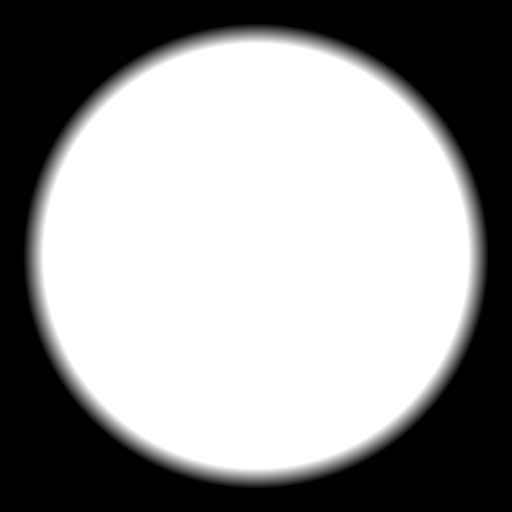
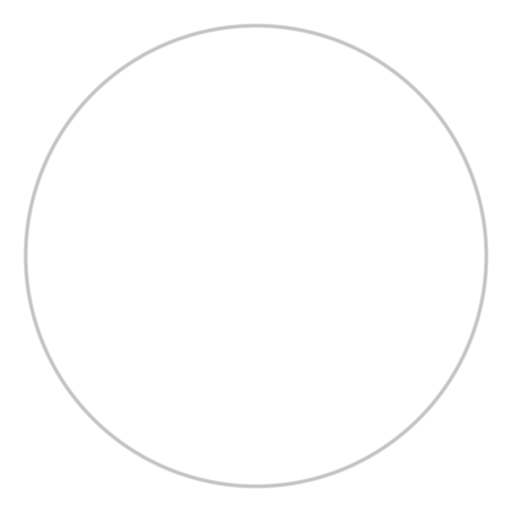
Add planets to scene

diff --git a/src/Game.jsx b/src/Game.jsx
@@ -1,7 +1,8 @@
 import { useGLTF, Environment } from "@react-three/drei";
-import { useLoader } from "@react-three/fiber";
+import { useLoader, useFrame } from "@react-three/fiber";
 import useOctree from "./useOctree";
 import Player from "./Player";
+import { useRef } from "react";
 import useOctreeHelper from "./useOctreeHelper";
 import Model from "./world-components/Platform";
 import Ocean from "./world-components/Ocean";
@@ -23,7 +24,20 @@ export default function Game() {
   const { nodes, scene } = useGLTF("/octree.glb");
   const octree = useOctree(scene);
   useOctreeHelper(octree);
+  const planet = useLoader(THREE.TextureLoader, "/img/planet.png");
+  const planet2 = useLoader(THREE.TextureLoader, "/img/planet2.png");
+  const planet3 = useLoader(THREE.TextureLoader, "/img/planet3.png");
   const simpleShadow = useLoader(THREE.TextureLoader, "/img/simpleShadow.png");
+  const diamond = useLoader(THREE.TextureLoader, "/img/diamond.png");
+  const planeRef = useRef();
+
+  // Rotate the mesh in the Z direction
+  useFrame((state, delta) => {
+    if (planeRef.current) {
+      const rotationSpeed = (2 * Math.PI) / 6; // Defines the speed of rotation
+      planeRef.current.rotation.z += (rotationSpeed * delta) / 300; // Adjusts the rotation in the Z direction
+    }
+  });
 
   return (
     <>
@@ -56,15 +70,51 @@ export default function Game() {
       <Clouds position-z={-300} position-y={-5} scale={10} />
       <Model />
       <Player octree={octree} />
-      <mesh position={[-300, 100, -700]} rotation-y={Math.PI / 6}>
+      {/* Big one */}
+      <mesh
+        ref={planeRef}
+        position={[-400, 40, -700]}
+        rotation-y={Math.PI / 5}
+        rotation-z={Math.PI / 1.6}
+      >
         <planeGeometry args={[1000, 1000]} />
-        <meshBasicMaterial
-          color="#978365"
-          transparent
-          opacity={1.0}
-          alphaMap={simpleShadow}
-          side={THREE.DoubleSide}
-        />
+        <meshBasicMaterial transparent opacity={0.5} alphaMap={planet} />
+      </mesh>
+      {/* Middle one */}
+      <mesh
+        position={[-600, 500, -100]}
+        rotation-y={Math.PI / 0.41}
+        rotation-x={Math.PI / 2.5}
+        rotation-z={Math.PI / 2}
+      >
+        <planeGeometry args={[100, 100]} />
+        <meshBasicMaterial transparent opacity={0.8} alphaMap={planet3} />
+      </mesh>
+      {/* Small ones */}
+      <mesh position={[-600, 200, 600]} rotation-y={Math.PI / 1.5}>
+        <planeGeometry args={[60, 60]} />
+        <meshBasicMaterial transparent opacity={1.0} alphaMap={planet2} />
+      </mesh>
+      <mesh position={[-100, 200, 600]} rotation-y={Math.PI / 1}>
+        <planeGeometry args={[40, 40]} />
+        <meshBasicMaterial transparent opacity={1.0} alphaMap={planet2} />
+      </mesh>
+      <mesh
+        position={[400, 600, -700]}
+        rotation-y={-Math.PI / 6}
+        rotation-z={Math.PI / 1}
+      >
+        <planeGeometry args={[50, 50]} />
+        <meshBasicMaterial transparent opacity={0.8} alphaMap={planet2} />
+      </mesh>
+      <mesh
+        position={[400, 400, -100]}
+        rotation-y={-Math.PI / 3}
+        rotation-x={Math.PI / 2}
+        rotation-z={Math.PI / 0.8}
+      >
+        <planeGeometry args={[50, 50]} />
+        <meshBasicMaterial transparent opacity={0.8} alphaMap={planet2} />
       </mesh>
     </>
   );
